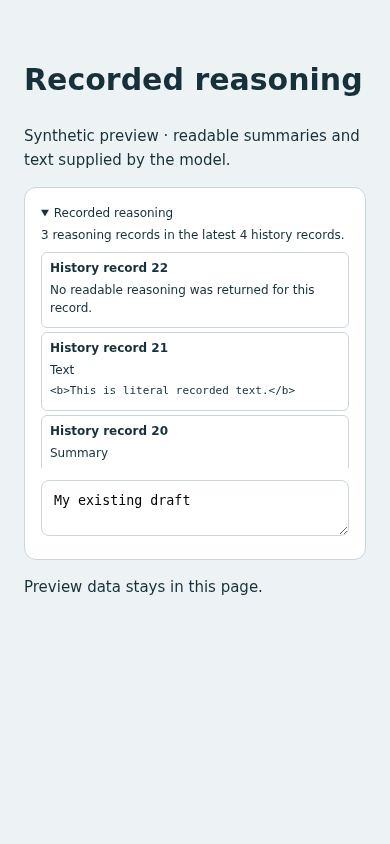
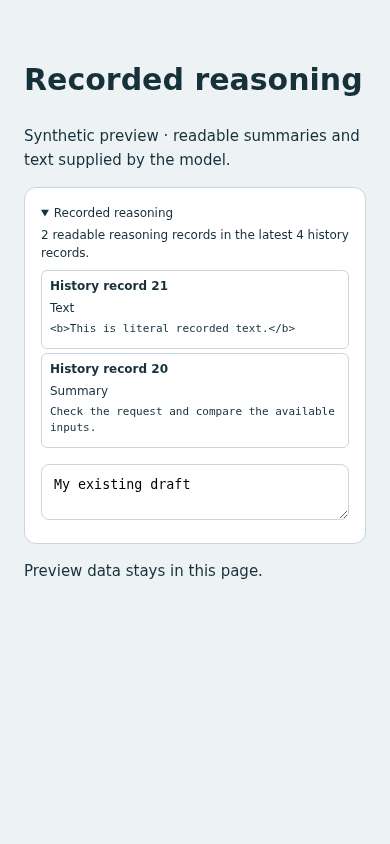
fix: hide optional frontend panels without content

Changed region(s): [[0.0923, 0.2464, 0.8923, 0.6161], [0.0615, 0.6469, 0.6769, 0.7085], [0.8615, 0.6161, 0.8923, 0.6469]]

diff --git a/packages/pycodex-ws/workspace_server/optional_features/reasoning-display/source/custom.js b/packages/pycodex-ws/workspace_server/optional_features/reasoning-display/source/custom.js
@@ -1,6 +1,7 @@
 // Reference implementation: displays only readable recorded reasoning.
 export function mount(host) {
   const root = document.createElement("details");
+  root.hidden = true;
   root.className = "example-reasoning-display";
   const heading = document.createElement("summary");
   heading.textContent = "Recorded reasoning";
@@ -15,9 +16,10 @@ export function mount(host) {
 
   function select() {
     stopSession();
+    root.hidden = true;
     list.replaceChildren();
     const sessionId = host.getActiveSessionId();
-    status.textContent = sessionId ? "Loading recorded reasoning…" : "Select a session.";
+    status.textContent = "";
     if (!sessionId) return;
     const request = new AbortController();
     let timer;
@@ -41,10 +43,10 @@ export function mount(host) {
               .filter(part => part.type === "summary_text").map(part => part.text).join("\n"),
             text: (item.payload.content || [])
               .filter(part => part.type === "reasoning_text").map(part => part.text).join("\n"),
-          }));
-        status.textContent = rows.length
-          ? `${rows.length} reasoning records in the latest ${page.items.length} history records.`
-          : "No reasoning records in the latest history page.";
+          }))
+          .filter(row => row.summary.trim() || row.text.trim());
+        root.hidden = rows.length === 0;
+        status.textContent = `${rows.length} readable reasoning records in the latest ${page.items.length} history records.`;
         if (page.next_cursor !== null) status.textContent += " Older records are not shown.";
         const serialized = JSON.stringify(rows);
         if (serialized !== lastRows) {
@@ -53,13 +55,8 @@ export function mount(host) {
             const title = document.createElement("strong");
             title.textContent = `History record ${row.index}`;
             section.append(title);
-            if (!row.summary && !row.text) {
-              const unavailable = document.createElement("p");
-              unavailable.textContent = "No readable reasoning was returned for this record.";
-              section.append(unavailable);
-            }
             for (const [label, value] of [["Summary", row.summary], ["Text", row.text]]) {
-              if (!value) continue;
+              if (!value.trim()) continue;
               const name = document.createElement("p");
               name.textContent = label;
               const text = document.createElement("pre");
@@ -75,6 +72,7 @@ export function mount(host) {
         list.replaceChildren();
         lastRows = "";
         status.textContent = `Unable to read recorded reasoning: ${error.message}`;
+        root.hidden = false;
       } finally {
         if (!request.signal.aborted) timer = setTimeout(refresh, 2000);
       }

diff --git a/packages/pycodex-ws/workspace_server/optional_features/exec-status/source/custom.js b/packages/pycodex-ws/workspace_server/optional_features/exec-status/source/custom.js
@@ -1,6 +1,7 @@
 // Reference implementation: adapt this source into your own custom.js.
 export function mount(host) {
   const root = document.createElement("section");
+  root.hidden = true;
   root.className = "example-exec-status";
   root.setAttribute("aria-label", "Command sessions");
   const status = document.createElement("p");
@@ -13,9 +14,10 @@ export function mount(host) {
 
   function select() {
     stopSession();
+    root.hidden = true;
     list.replaceChildren();
     const sessionId = host.getActiveSessionId();
-    status.textContent = sessionId ? "Loading command sessions…" : "Select a session.";
+    status.textContent = "";
     if (!sessionId) return;
     const request = new AbortController();
     let timer;
@@ -32,9 +34,8 @@ export function mount(host) {
         );
         if (request.signal.aborted || host.getActiveSessionId() !== sessionId) return;
         const commands = background_work.filter(item => item.kind === "exec");
-        status.textContent = commands.length
-          ? `${commands.filter(item => item.status === "running").length} running · ${commands.length} command sessions`
-          : "No command sessions.";
+        root.hidden = commands.length === 0;
+        status.textContent = `${commands.filter(item => item.status === "running").length} running · ${commands.length} command sessions`;
         const serialized = JSON.stringify(commands);
         if (serialized !== lastRows) {
           list.replaceChildren(...commands.map(command => {
@@ -51,6 +52,7 @@ export function mount(host) {
         list.replaceChildren();
         lastRows = "";
         status.textContent = `Unable to read command sessions: ${error.message}`;
+        root.hidden = false;
       } finally {
         if (!request.signal.aborted) timer = setTimeout(refresh, 2000);
       }

diff --git a/packages/pycodex-ws/workspace_server/optional_features/subagent-status/source/custom.js b/packages/pycodex-ws/workspace_server/optional_features/subagent-status/source/custom.js
@@ -1,6 +1,7 @@
 // Reference implementation: adapt this source into your own custom.js.
 export function mount(host) {
   const root = document.createElement("section");
+  root.hidden = true;
   root.className = "example-subagent-status";
   root.setAttribute("aria-label", "Subagents");
   const status = document.createElement("p");
@@ -13,9 +14,10 @@ export function mount(host) {
 
   function select() {
     stopSession();
+    root.hidden = true;
     list.replaceChildren();
     const sessionId = host.getActiveSessionId();
-    status.textContent = sessionId ? "Loading subagents…" : "Select a session.";
+    status.textContent = "";
     if (!sessionId) return;
     const request = new AbortController();
     let timer;
@@ -31,9 +33,8 @@ export function mount(host) {
           {signal: request.signal},
         );
         if (request.signal.aborted || host.getActiveSessionId() !== sessionId) return;
-        status.textContent = agents.length
-          ? `${agents.filter(agent => agent.status === "running").length} running · ${agents.length} subagents`
-          : "No subagents.";
+        root.hidden = agents.length === 0;
+        status.textContent = `${agents.filter(agent => agent.status === "running").length} running · ${agents.length} subagents`;
         const serialized = JSON.stringify(agents);
         if (serialized !== lastRows) {
           list.replaceChildren(...agents.map(agent => {
@@ -68,6 +69,7 @@ export function mount(host) {
         list.replaceChildren();
         lastRows = "";
         status.textContent = `Unable to read subagents: ${error.message}`;
+        root.hidden = false;
       } finally {
         if (!request.signal.aborted) timer = setTimeout(refresh, 2000);
       }

diff --git a/packages/pycodex-ws/workspace_server/optional_features/tool-calls/source/custom.js b/packages/pycodex-ws/workspace_server/optional_features/tool-calls/source/custom.js
@@ -1,6 +1,7 @@
 // Reference implementation: adapt this source into your own custom.js.
 export function mount(host) {
   const root = document.createElement("details");
+  root.hidden = true;
   root.className = "example-tool-calls";
   const heading = document.createElement("summary");
   heading.textContent = "Tool calls";
@@ -15,9 +16,10 @@ export function mount(host) {
 
   function select() {
     stopSession();
+    root.hidden = true;
     list.replaceChildren();
     const sessionId = host.getActiveSessionId();
-    status.textContent = sessionId ? "Loading tool history…" : "Select a session.";
+    status.textContent = "";
     if (!sessionId) return;
     const request = new AbortController();
     let timer;
@@ -53,6 +55,7 @@ export function mount(host) {
             calls.set(item.call_id, call);
           }
         }
+        root.hidden = calls.size === 0;
         status.textContent = `${calls.size} calls in the latest ${page.items.length} history records` +
           (page.next_cursor === null ? "." : " · older records are not shown.");
         const rows = Array.from(calls.values());
@@ -86,6 +89,7 @@ export function mount(host) {
         list.replaceChildren();
         lastRows = "";
         status.textContent = `Unable to read tool history: ${error.message}`;
+        root.hidden = false;
       } finally {
         if (!request.signal.aborted) timer = setTimeout(refresh, 2000);
       }

diff --git a/packages/pycodex-ws/workspace_server/optional_features/exec-status/preview.html b/packages/pycodex-ws/workspace_server/optional_features/exec-status/preview.html
@@ -18,11 +18,11 @@
 </main>
 <script type="module">
   import {mount} from "./source/custom.js";
-  import {sample, check} from "./source/fixture.mjs";
+  import {sample, empty, check} from "./source/fixture.mjs";
   import {verify} from "./source/verify.mjs";
   async function main() {
     if (new URL(location.href).searchParams.has("verify")) {
-      await verify(mount, sample, check);
+      await verify(mount, sample, empty, check);
       document.querySelector("#verification").textContent = "PASS · fixture, switching, retry, page lifecycle and cleanup checks.";
     } else {
       mount({getActiveSessionId: () => "preview", onSessionChanged: () => () => {}, request: async () => sample()});

diff --git a/packages/pycodex-ws/workspace_server/optional_features/reasoning-display/preview.html b/packages/pycodex-ws/workspace_server/optional_features/reasoning-display/preview.html
@@ -18,11 +18,11 @@
 </main>
 <script type="module">
   import {mount} from "./source/custom.js";
-  import {sample, check} from "./source/fixture.mjs";
+  import {sample, empty, check} from "./source/fixture.mjs";
   import {verify} from "./source/verify.mjs";
   async function main() {
     if (new URL(location.href).searchParams.has("verify")) {
-      await verify(mount, sample, check);
+      await verify(mount, sample, empty, check);
       document.querySelector("#verification").textContent = "PASS · fixture, switching, retry, page lifecycle and cleanup checks.";
     } else {
       mount({getActiveSessionId: () => "preview", onSessionChanged: () => () => {}, request: async () => sample()});

diff --git a/packages/pycodex-ws/workspace_server/optional_features/subagent-status/preview.html b/packages/pycodex-ws/workspace_server/optional_features/subagent-status/preview.html
@@ -18,11 +18,11 @@
 </main>
 <script type="module">
   import {mount} from "./source/custom.js";
-  import {sample, check} from "./source/fixture.mjs";
+  import {sample, empty, check} from "./source/fixture.mjs";
   import {verify} from "./source/verify.mjs";
   async function main() {
     if (new URL(location.href).searchParams.has("verify")) {
-      await verify(mount, sample, check);
+      await verify(mount, sample, empty, check);
       document.querySelector("#verification").textContent = "PASS · fixture, switching, retry, page lifecycle and cleanup checks.";
     } else {
       mount({getActiveSessionId: () => "preview", onSessionChanged: () => () => {}, request: async () => sample()});

diff --git a/packages/pycodex-ws/workspace_server/optional_features/tool-calls/preview.html b/packages/pycodex-ws/workspace_server/optional_features/tool-calls/preview.html
@@ -18,11 +18,11 @@
 </main>
 <script type="module">
   import {mount} from "./source/custom.js";
-  import {sample, check} from "./source/fixture.mjs";
+  import {sample, empty, check} from "./source/fixture.mjs";
   import {verify} from "./source/verify.mjs";
   async function main() {
     if (new URL(location.href).searchParams.has("verify")) {
-      await verify(mount, sample, check);
+      await verify(mount, sample, empty, check);
       document.querySelector("#verification").textContent = "PASS · fixture, switching, retry, page lifecycle and cleanup checks.";
     } else {
       mount({getActiveSessionId: () => "preview", onSessionChanged: () => () => {}, request: async () => sample()});

diff --git a/packages/pycodex-ws/workspace_server/optional_features/reasoning-display/README.md b/packages/pycodex-ws/workspace_server/optional_features/reasoning-display/README.md
@@ -10,12 +10,15 @@ tags: [reasoning, history]
 
 Add a collapsible panel showing readable reasoning returned by the model and
 recorded in the conversation. A reasoning record can contain summary text,
-reasoning text, both, or neither. Records without readable content get an
-explicit unavailable message.
+reasoning text, both, or neither. Records without readable content are omitted,
+including opaque-only and whitespace-only records.
 
 The panel reads the newest 200 history records every two seconds after the
 previous request finishes. It renders newest reasoning records first.
 Assistant message text and the display snapshot's `thinking` field are not used.
+The whole panel stays hidden during initial loading, without a selected session
+or when no readable records remain. Polling continues while hidden.
+Request failures display an error until polling recovers.
 
 ## Source
 
@@ -60,9 +63,11 @@ Chromium checks passed:
 | Scenario | Observed result |
 | --- | --- |
 | Readable summary and reasoning-text records | Both displayed in separate labeled sections |
-| Opaque-only record | Unavailable message; opaque fixture bytes absent from DOM |
+| Opaque-only and whitespace-only records | Omitted; no empty record boxes or opaque fixture bytes in the DOM |
+| Empty selection, loading and no readable records | Entire panel hidden without occupying space |
+| Polling from readable records to empty and back | Entire panel hides and reappears automatically |
 | Assistant message and HTML-like reasoning text | Assistant text excluded; reasoning text escaped by text rendering |
-| Late response after switching, request failure and recovery | Current session preserved; error visible then cleared |
+| Late response after switching, request failure and empty recovery | Current session preserved; error visible then panel hidden |
 | Page hide/cache restore, disposal and remount | Requests/timers/listeners stopped or restored |
 | Desktop, 390px mobile and refresh | No horizontal overflow; draft preserved |
 

diff --git a/packages/pycodex-ws/workspace_server/optional_features/exec-status/README.md b/packages/pycodex-ws/workspace_server/optional_features/exec-status/README.md
@@ -14,6 +14,9 @@ from `running` to `exited (0)` when execution finishes. Released entries disappe
 
 The count and rows refresh every two seconds after the previous request finishes.
 Changing the selected conversation clears the old rows immediately.
+The whole panel stays hidden during initial loading, without a selected session
+or when no exec entries remain. Polling continues while hidden, so new entries
+appear automatically. Request failures display an error until polling recovers.
 
 ## Source
 
@@ -57,9 +60,10 @@ Chromium checks passed for the supplied preview:
 | Scenario | Observed result |
 | --- | --- |
 | Running, exited and clock records | Two exec entries; clock excluded; exit code and PID displayed |
-| Initially empty selection, then running work | Empty state followed by the inventory |
+| Empty selection, loading, no exec entries, then running work | No occupied space until exec entries arrive; clock-only results stay hidden |
+| Polling from populated to empty and back | Entire panel hides and reappears automatically |
 | Switch with a late old response | Old request aborted; late data did not replace current rows |
-| Failed request followed by successful polling | Error visible, then current rows restored |
+| Failed request followed by an empty successful result | Error visible, then panel hidden |
 | Page hide, cached-page restoration, disposal and remount | Polling paused/resumed; subscriptions and UI cleaned up |
 | Desktop, 390px mobile and refresh | No horizontal overflow; composer draft preserved |
 

diff --git a/packages/pycodex-ws/workspace_server/optional_features/subagent-status/README.md b/packages/pycodex-ws/workspace_server/optional_features/subagent-status/README.md
@@ -15,6 +15,9 @@ descendants. The header counts running agents and all retained descendants.
 
 The panel reads a fresh inventory every two seconds after the prior request.
 Switching conversations clears the old inventory immediately.
+The whole panel stays hidden during initial loading, without a selected session
+or when the inventory is empty. Polling continues while hidden, so new agents
+appear automatically. Request failures display an error until polling recovers.
 
 ## Source
 
@@ -60,8 +63,10 @@ Chromium checks passed for the supplied preview:
 | --- | --- |
 | Nested, running, completed, errored, shutdown and pending agents | Parent IDs, count and outcome details displayed |
 | Nickname containing HTML-like text | Rendered literally, without creating markup |
-| Initially empty selection and late response after switching | Correct empty state; old response ignored |
-| Request failure and subsequent successful polling | Error displayed and inventory recovered |
+| Empty selection, loading and empty inventory | Entire panel hidden without occupying space |
+| Polling from populated to empty and back | Entire panel hides and reappears automatically |
+| Late response after switching | Old response ignored |
+| Request failure followed by an empty successful result | Error displayed, then panel hidden |
 | Page hide/cache restore, disposal and remount | Requests aborted, polling resumed and listeners removed |
 | Desktop, 390px mobile and refresh | No horizontal overflow; existing draft retained |
 

diff --git a/packages/pycodex-ws/workspace_server/optional_features/tool-calls/README.md b/packages/pycodex-ws/workspace_server/optional_features/tool-calls/README.md
@@ -17,6 +17,9 @@ The newest 200 history records are queried every two seconds after the previous
 request completes. Rows show newest calls first. A call without a result in
 that page says so; it is not labeled as currently running. A result whose call
 is outside the page is still displayed as an earlier tool call.
+The whole panel stays hidden during initial loading, without a selected session
+or when the page has no supported calls/results. Polling continues while hidden.
+Request failures display an error until polling recovers.
 
 ## Source
 
@@ -64,7 +67,9 @@ Chromium checks passed:
 | Output with its call outside the page | Output retained as an earlier call |
 | Call without a recorded result | Explicit incomplete-page label |
 | Structured output containing HTML-like text | Shown literally; no markup created |
-| Session switch with a late response; request error and recovery | No cross-session overwrite; error visible then cleared |
+| Empty selection, loading and history without calls/results | Entire panel hidden without occupying space |
+| Polling from populated to empty and back | Entire panel hides and reappears automatically |
+| Session switch with a late response; request error and empty recovery | No cross-session overwrite; error visible then panel hidden |
 | Page hide/cache restore, disposal and remount | Polling and listeners cleaned up/restored |
 | Desktop, 390px mobile and page refresh | No horizontal overflow; draft retained |
 
